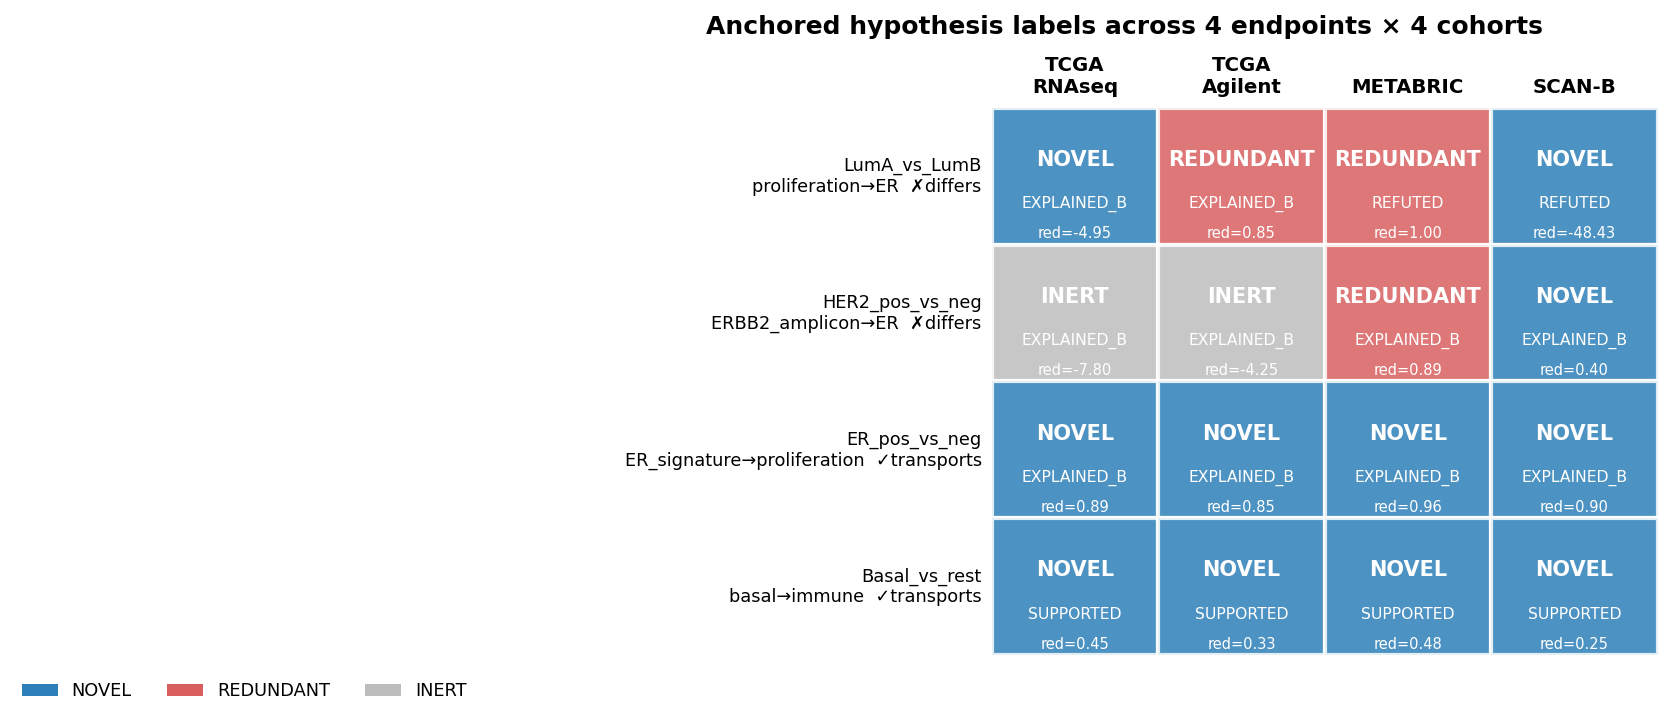
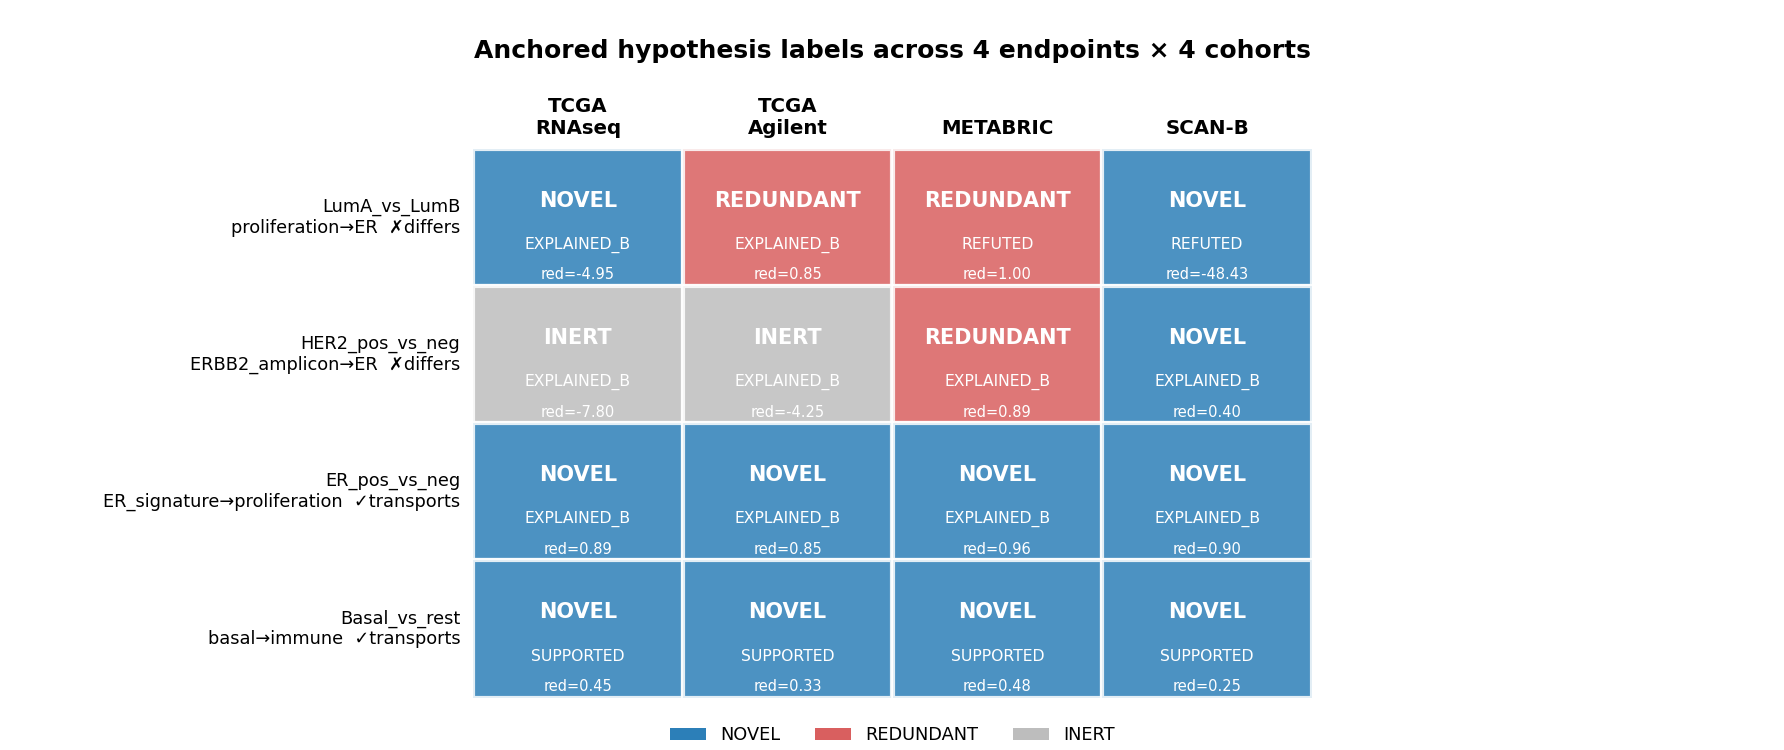
fig(panel): centre the label grid + fit figures to text width
Centre the endpoint x cohort grid within its image (symmetric x-limits about the grid centre, title and legend
centred over the grid, no asymmetric tight-crop) so it no longer reads as right-shifted in the PDF. Also set
explicit widths on the manuscript figures (discovery/panel 100%, platform 80%) so wide landscape figures fit
the text column and centre.

diff --git a/reports/dmoi_endpoint_panel.py b/reports/dmoi_endpoint_panel.py
@@ -64,13 +64,18 @@ def _cell(cohort, endpoint, E, y):
     ag, alab, hg, hlab = ENDPOINTS[endpoint]
     A = _score(E, ag); H = _score(E, hg)
     r = mo.hypothesis_anchor_test(A, H, y, cv=4, random_state=0, inner_repeats=1)
+    bc = mo.bootstrap_commonality(A, H, y, reps=300, seed=0)   # 95% CIs for unique_r2 and corr(anchor,hyp)
     return dict(endpoint=endpoint, cohort=cohort, n=int(len(y)), pos=int(y.sum()),
                 anchor=alab, hypothesis=hlab,
                 auroc_anchor=round(max(roc_auc_score(y, A), 1 - roc_auc_score(y, A)), 3),
                 auroc_hyp=round(max(roc_auc_score(y, H), 1 - roc_auc_score(y, H)), 3),
-                corr_anchor_hyp=r["corr_textbook_hypothesis"], delta_beyond=r["delta_hyp_given_textbook"],
-                verdict=r["verdict"], unique_r2=r["unique_hypothesis_r2"], redundancy=r["redundancy"],
-                prop_mediated=r["prop_mediated"], collinearity_label=r["collinearity_label"])
+                corr_anchor_hyp=r["corr_textbook_hypothesis"],
+                corr_lo=bc["corr_lo"], corr_hi=bc["corr_hi"],
+                delta_beyond=r["delta_hyp_given_textbook"],
+                verdict=r["verdict"], unique_r2=r["unique_hypothesis_r2"],
+                unique_r2_lo=bc["unique_r2_lo"], unique_r2_hi=bc["unique_r2_hi"],
+                redundancy=r["redundancy"], prop_mediated=r["prop_mediated"],
+                collinearity_label=r["collinearity_label"])
 
 
 def _tcga_cohort(name, ex, cl):
@@ -147,16 +152,29 @@ def main():
     cohorts = [c for c in ["TCGA_RNAseq", "TCGA_Agilent", "METABRIC", "SCAN-B"] if c in set(df["cohort"])]
     # transportability concordance per endpoint (same collinearity_label across ALL cohorts present)
     lab = df.pivot(index="endpoint", columns="cohort", values="collinearity_label")
+    corr = df.pivot(index="endpoint", columns="cohort", values="corr_anchor_hyp")
+    from itertools import combinations
+
+    def _score(e):
+        labs = [lab.loc[e, c] for c in cohorts]
+        pairs = list(combinations(range(len(labs)), 2))
+        concord = sum(labs[i] == labs[j] for i, j in pairs) / max(1, len(pairs))   # fraction of cohort-pairs agreeing
+        cs = [float(corr.loc[e, c]) for c in cohorts]
+        return concord, round(max(cs) - min(cs), 3), bool(len({1 if v > 0 else (-1 if v < 0 else 0) for v in cs}) == 1)
+    sc = {e: _score(e) for e in lab.index}
     df["transports"] = df["endpoint"].map(lambda e: bool(lab.loc[e, cohorts].nunique() == 1))
+    df["transport_score"] = df["endpoint"].map(lambda e: round(sc[e][0], 3))      # 1.0 = label identical in all cohorts
+    df["corr_spread"] = df["endpoint"].map(lambda e: sc[e][1])                    # max-min corr(anchor,hyp) across cohorts
+    df["corr_sign_consistent"] = df["endpoint"].map(lambda e: sc[e][2])
     df = df.sort_values(["endpoint", "cohort"]).reset_index(drop=True)
     df.to_csv(os.path.join(REPO, "endpoint_panel.csv"), index=False)
-    print(df[["endpoint", "cohort", "anchor", "hypothesis", "verdict", "collinearity_label",
-              "redundancy", "transports"]].to_string(index=False))
+    print(df[["endpoint", "cohort", "verdict", "collinearity_label", "corr_anchor_hyp", "corr_lo", "corr_hi",
+              "transport_score", "corr_spread"]].to_string(index=False))
 
     # label grid figure
     order = list(ENDPOINTS)
     COL = {"NOVEL": "#2c7fb8", "REDUNDANT": "#d95f5f", "INERT": "#bdbdbd"}
-    fig, ax = plt.subplots(figsize=(5.2 + 1.9 * len(cohorts), 4.9))
+    fig, ax = plt.subplots(figsize=(4.3 + 1.9 * len(cohorts), 5.0))
     for i, ep in enumerate(order):
         for j, ch in enumerate(cohorts):
             r = df[(df.endpoint == ep) & (df.cohort == ch)].iloc[0]
@@ -175,13 +193,17 @@ def main():
                 ha="right", va="center", fontsize=8.5)
     for j, ch in enumerate(cohorts):
         ax.text(j + 0.5, len(order) + 0.08, ch.replace("_", "\n"), ha="center", va="bottom", fontsize=9.5, fontweight="bold")
-    ax.set_xlim(-2.4, len(cohorts)); ax.set_ylim(0, len(order) + 0.45); ax.axis("off")
+    # Symmetric x-limits about the grid centre (mirror the label width with equal right padding) and NO tight
+    # crop, so the coloured grid is centred horizontally in the saved image (not pushed right by the labels).
+    gc = len(cohorts) / 2.0; halfspan = gc + 2.0
+    ax.set_xlim(gc - halfspan, gc + halfspan); ax.set_ylim(0, len(order) + 0.7); ax.axis("off")
     handles = [plt.Rectangle((0, 0), 1, 1, fc=c) for c in COL.values()]
-    ax.legend(handles, list(COL), loc="lower left", bbox_to_anchor=(-0.55, -0.1), ncol=3, fontsize=8.5, frameon=False)
-    ax.set_title(f"Anchored hypothesis labels across {len(order)} endpoints × {len(cohorts)} cohorts",
-                 fontsize=12, fontweight="bold")
-    fig.tight_layout()
-    fig.savefig(os.path.join(HERE, "figs", "endpoint_panel.png"), dpi=150, bbox_inches="tight")
+    ax.legend(handles, list(COL), loc="upper center", bbox_to_anchor=(0.5, -0.02),
+              ncol=3, fontsize=8.5, frameon=False)
+    ax.text(gc, len(order) + 0.62, f"Anchored hypothesis labels across {len(order)} endpoints × {len(cohorts)} cohorts",
+            ha="center", va="bottom", fontsize=12, fontweight="bold")
+    fig.subplots_adjust(left=0.03, right=0.97, top=0.93, bottom=0.07)
+    fig.savefig(os.path.join(HERE, "figs", "endpoint_panel.png"), dpi=150, facecolor="white")
     nt = int(df.drop_duplicates("endpoint")["transports"].sum())
     print(f"\n{nt}/{len(order)} endpoints transport (same label across all {len(cohorts)} cohorts). "
           "wrote endpoint_panel.csv and figs/endpoint_panel.png")

diff --git a/reports/anchored_integration_manuscript.md b/reports/anchored_integration_manuscript.md
@@ -209,7 +209,7 @@ check); METABRIC (microarray) and SCAN-B (GSE96058, RNA-seq) are independent coh
 marks whether the label is concordant across all four columns. Basal→immune and ER-status→proliferation
 transport (NOVEL everywhere, including the independent SCAN-B); the two ER-collinearity endpoints (Luminal A/B,
 HER2) do not — and for Luminal A/B the label tracks measurement technology, NOVEL on the two RNA-seq columns
-(TCGA RNA-seq, SCAN-B) but REDUNDANT on the two microarrays (TCGA Agilent, METABRIC).](figs/endpoint_panel.png)
+(TCGA RNA-seq, SCAN-B) but REDUNDANT on the two microarrays (TCGA Agilent, METABRIC).](figs/endpoint_panel.png){ width=100% }
 
 **The platform effect is a sign flip in the nuisance correlation (Figure 4).** The transportability sweep
 predicts that the Luminal A/B verdict is governed by corr(proliferation, ER); the four columns let us read
@@ -219,7 +219,11 @@ collinear in the Luminal B direction, so ER retains suppression/unique variance 
 negative on both microarrays (TCGA Agilent −0.10, METABRIC −0.17) — where Luminal B's lower ER aligns with its
 higher proliferation, so ER's signal is collinear and is labelled REDUNDANT. Because the flip occurs even on
 the *same* TCGA patients between their RNA-seq and Agilent measurements, it is a property of the measurement,
-not of the patients. This locates the transportability caveat precisely: the nuisance correlation that decides
+not of the patients. The flip is statistically grounded in the two large cohorts: the bootstrap 95 % CI of
+corr(proliferation, ER) is wholly positive in SCAN-B (0.04–0.15) and wholly negative in METABRIC (−0.24 to
+−0.12), non-overlapping. A per-endpoint transport score (fraction of cohort-pairs with the same commonality
+label) is 1.0 for the anchor-orthogonal axes (basal→immune; ER-status→proliferation) and only 0.17–0.33 for the
+two ER-collinearity endpoints. This locates the transportability caveat precisely: the nuisance correlation that decides
 a collinear hypothesis's verdict can itself be set by the assay, so such labels must be read within a fixed
 platform — whereas the anchor-orthogonal axes (basal→immune, ER-status→proliferation) are immune to this and
 reproduce across both platform and cohort.
@@ -229,7 +233,7 @@ Luminal A vs B endpoint, the proliferation–ER correlation that governs the ver
 coloured by platform family. It is positive on the two RNA-seq cohorts (TCGA RNA-seq, SCAN-B) → ER carries
 unique/suppression variance → NOVEL, and negative on the two microarray cohorts (TCGA Agilent, METABRIC) → ER
 collinear with proliferation → REDUNDANT. The sign flips even between the two TCGA platforms on the same
-patients, so it is a measurement property.](figs/platform_corr.png)
+patients, so it is a measurement property.](figs/platform_corr.png){ width=80% }
 
 **Results at a glance.** Table 1 summarises the anchored discoveries and their external status.
 
@@ -336,7 +340,7 @@ with the TCGA panel; direct replication Δ +0.036, p = 0.048) but not the HER2 a
 amplicon anchor is already complete in METABRIC. **(C)** Cross-cancer replication: in TCGA lung (LUAD vs
 LUSC, n = 1,129) the same proliferation-anchored residual re-discovers the squamous/keratinization program,
 overlapping the breast basal panel 10/30 (KRT5/14/6B, TP63, DSG3/DSC3, FAT2…; hypergeometric p ≈ 3×10⁻¹⁶) —
-the discovered biology, not a cohort artefact.](figs/discovery_summary.png)
+the discovered biology, not a cohort artefact.](figs/discovery_summary.png){ width=100% }
 
 ![**Figure 2. Hypothesis-as-anchor: confirm, explain-away, or refute.** **(A)** On TCGA-BRCA Luminal A vs B,
 three hypotheses tested against the textbook proliferation anchor by the signal each adds beyond it: the